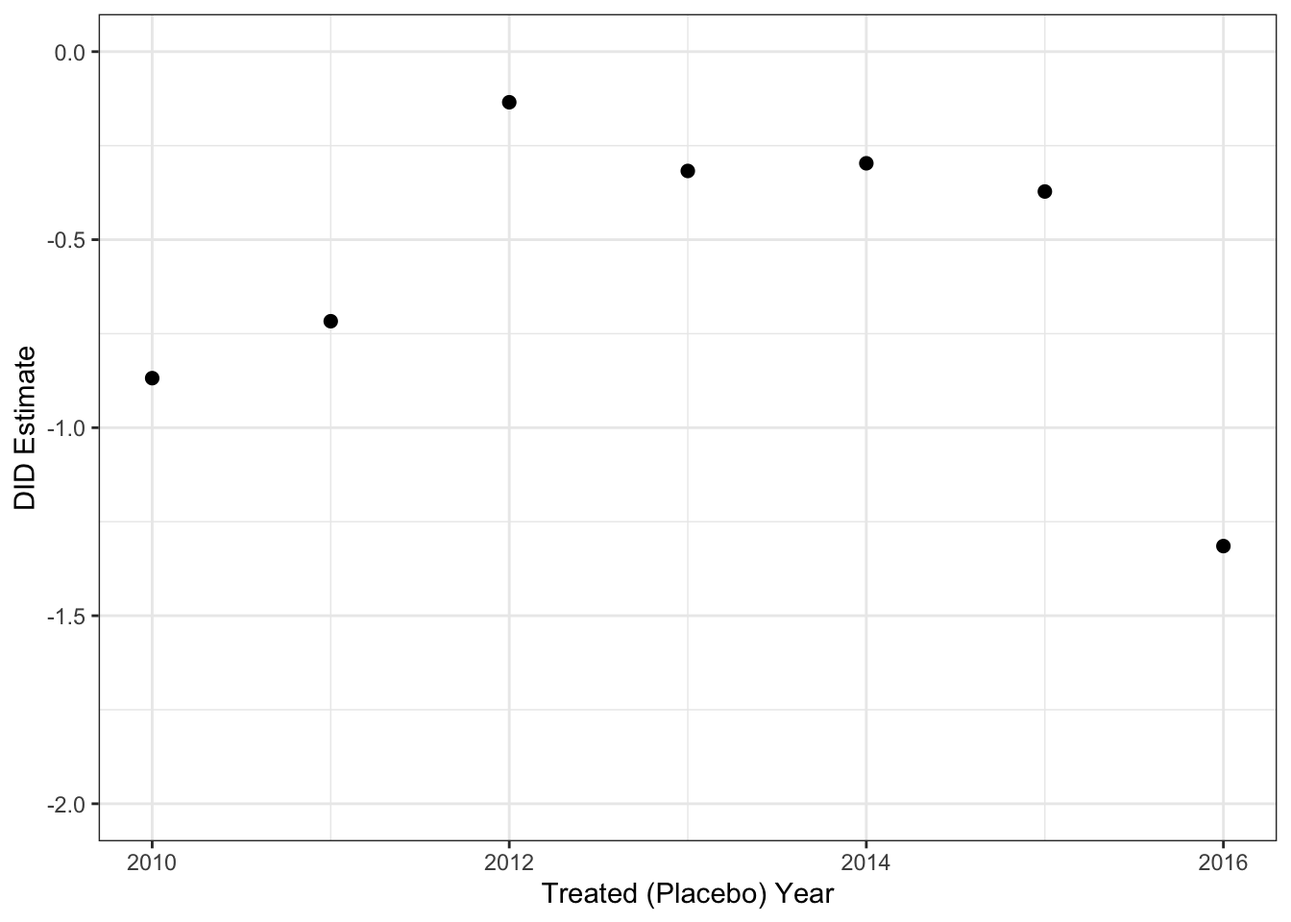
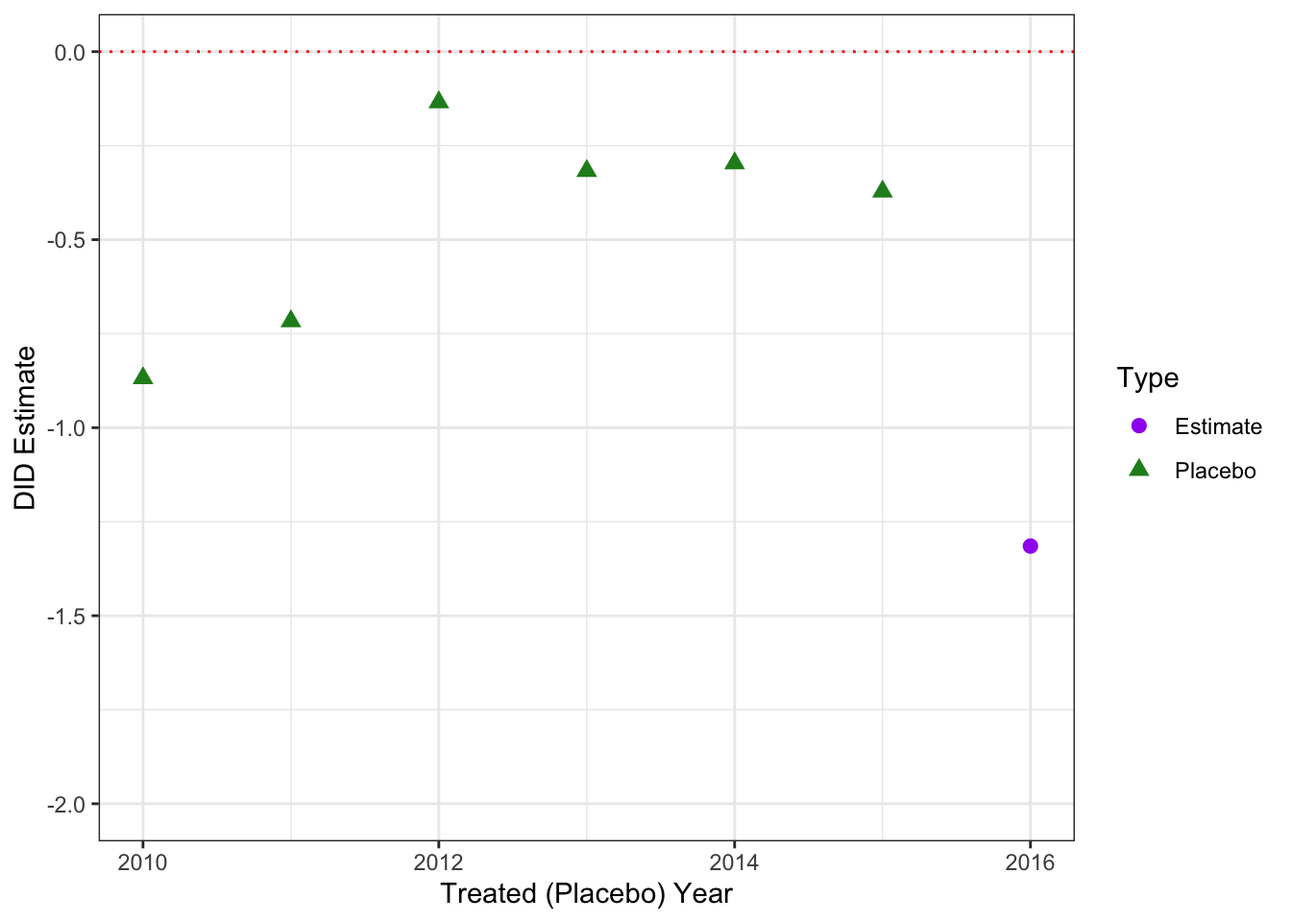
RS: updated DID analysis

diff --git a/analysis/zika-did-handout.html b/analysis/zika-did-handout.html
@@ -117,7 +117,7 @@ pre > code.sourceCode > span > a:first-child::before { text-decoration: underlin
 <h2 class="anchored" data-anchor-id="libraries">Libraries</h2>
 <p>Throughout the workshop, we will use the <code>tidyverse</code> environment for data cleaning and plotting, but the operations for the methods we are learning can be conducted in base R as well. The <code>knitr</code> package is used for formatting table output into the document.</p>
 <p>To get clustered standard errors for the regression-based DID analyses, we use linear mixed effects models fit using the <code>lme4</code> package, although other options are available.</p>
-<p>We now load the two required libraries.</p>
+<p>We now load the required libraries.</p>
 <div class="cell">
 <div class="sourceCode cell-code" id="cb2"><pre class="sourceCode r code-with-copy"><code class="sourceCode r"><span id="cb2-1"><a href="#cb2-1" aria-hidden="true" tabindex="-1"></a><span class="do">## If you have not installed these packages before,</span></span>
 <span id="cb2-2"><a href="#cb2-2" aria-hidden="true" tabindex="-1"></a><span class="do">##  run the following line:</span></span>
@@ -205,23 +205,25 @@ pre > code.sourceCode > span > a:first-child::before { text-decoration: underlin
 <p>We can start by examining just two time periods: 2014, prior to the outbreak, and 2016, the first year where the outbreak could have affected live birth rates throughout the year. Note that we exclude 2015, which may have been partially affected. We continue to use the <code>zika_summ</code> data set here, looking at the two states as a whole.</p>
 <div class="cell">
 <div class="sourceCode cell-code" id="cb6"><pre class="sourceCode r code-with-copy"><code class="sourceCode r"><span id="cb6-1"><a href="#cb6-1" aria-hidden="true" tabindex="-1"></a><span class="do">## Get differences within-units:</span></span>
-<span id="cb6-2"><a href="#cb6-2" aria-hidden="true" tabindex="-1"></a>did_2x2 <span class="ot">&lt;-</span> zika_summ <span class="sc">%&gt;%</span> dplyr<span class="sc">::</span><span class="fu">filter</span>(Year <span class="sc">%in%</span> <span class="fu">c</span>(<span class="dv">2014</span>,<span class="dv">2016</span>)) <span class="sc">%&gt;%</span></span>
-<span id="cb6-3"><a href="#cb6-3" aria-hidden="true" tabindex="-1"></a>  <span class="fu">pivot_wider</span>(<span class="at">id_cols=</span>State,</span>
-<span id="cb6-4"><a href="#cb6-4" aria-hidden="true" tabindex="-1"></a>              <span class="at">names_from=</span>Year,</span>
-<span id="cb6-5"><a href="#cb6-5" aria-hidden="true" tabindex="-1"></a>              <span class="at">values_from=</span>Rate) <span class="sc">%&gt;%</span></span>
-<span id="cb6-6"><a href="#cb6-6" aria-hidden="true" tabindex="-1"></a>  <span class="fu">mutate</span>(<span class="st">`</span><span class="at">Diff, 2016–2014</span><span class="st">`</span><span class="ot">=</span><span class="st">`</span><span class="at">2016</span><span class="st">`</span><span class="sc">-</span><span class="st">`</span><span class="at">2014</span><span class="st">`</span>)</span>
-<span id="cb6-7"><a href="#cb6-7" aria-hidden="true" tabindex="-1"></a><span class="do">## Get differences within years:</span></span>
-<span id="cb6-8"><a href="#cb6-8" aria-hidden="true" tabindex="-1"></a>yr_diffs <span class="ot">&lt;-</span> did_2x2 <span class="sc">%&gt;%</span></span>
-<span id="cb6-9"><a href="#cb6-9" aria-hidden="true" tabindex="-1"></a>  dplyr<span class="sc">::</span><span class="fu">filter</span>(State<span class="sc">==</span><span class="st">"Pernambuco"</span>) <span class="sc">%&gt;%</span> </span>
-<span id="cb6-10"><a href="#cb6-10" aria-hidden="true" tabindex="-1"></a>  dplyr<span class="sc">::</span><span class="fu">select</span>(<span class="sc">-</span><span class="fu">c</span>(State)) <span class="sc">-</span> </span>
-<span id="cb6-11"><a href="#cb6-11" aria-hidden="true" tabindex="-1"></a>  did_2x2 <span class="sc">%&gt;%</span></span>
-<span id="cb6-12"><a href="#cb6-12" aria-hidden="true" tabindex="-1"></a>  dplyr<span class="sc">::</span><span class="fu">filter</span>(State<span class="sc">==</span><span class="st">"Rio Grande do Sul"</span>) <span class="sc">%&gt;%</span> </span>
-<span id="cb6-13"><a href="#cb6-13" aria-hidden="true" tabindex="-1"></a>  dplyr<span class="sc">::</span><span class="fu">select</span>(<span class="sc">-</span><span class="fu">c</span>(State))</span>
-<span id="cb6-14"><a href="#cb6-14" aria-hidden="true" tabindex="-1"></a><span class="do">## Combine into presentation table:</span></span>
-<span id="cb6-15"><a href="#cb6-15" aria-hidden="true" tabindex="-1"></a>did_2x2_f <span class="ot">&lt;-</span> did_2x2 <span class="sc">%&gt;%</span> <span class="fu">add_row</span>(<span class="fu">bind_cols</span>(<span class="at">State=</span><span class="st">"Diff, Treated–Untreated"</span>,</span>
-<span id="cb6-16"><a href="#cb6-16" aria-hidden="true" tabindex="-1"></a>                                 yr_diffs))</span></code><button title="Copy to Clipboard" class="code-copy-button"><i class="bi"></i></button></pre></div>
+<span id="cb6-2"><a href="#cb6-2" aria-hidden="true" tabindex="-1"></a>did_2x2 <span class="ot">&lt;-</span> zika_summ <span class="sc">%&gt;%</span> </span>
+<span id="cb6-3"><a href="#cb6-3" aria-hidden="true" tabindex="-1"></a>  dplyr<span class="sc">::</span><span class="fu">filter</span>(Year <span class="sc">%in%</span> <span class="fu">c</span>(<span class="dv">2014</span>,<span class="dv">2016</span>)) <span class="sc">%&gt;%</span></span>
+<span id="cb6-4"><a href="#cb6-4" aria-hidden="true" tabindex="-1"></a>  <span class="fu">pivot_wider</span>(<span class="at">id_cols=</span>State,</span>
+<span id="cb6-5"><a href="#cb6-5" aria-hidden="true" tabindex="-1"></a>              <span class="at">names_from=</span>Year,</span>
+<span id="cb6-6"><a href="#cb6-6" aria-hidden="true" tabindex="-1"></a>              <span class="at">values_from=</span>Rate) <span class="sc">%&gt;%</span></span>
+<span id="cb6-7"><a href="#cb6-7" aria-hidden="true" tabindex="-1"></a>  <span class="fu">mutate</span>(<span class="st">`</span><span class="at">Diff, 2016–2014</span><span class="st">`</span><span class="ot">=</span><span class="st">`</span><span class="at">2016</span><span class="st">`</span><span class="sc">-</span><span class="st">`</span><span class="at">2014</span><span class="st">`</span>)</span>
+<span id="cb6-8"><a href="#cb6-8" aria-hidden="true" tabindex="-1"></a><span class="do">## Get differences within years:</span></span>
+<span id="cb6-9"><a href="#cb6-9" aria-hidden="true" tabindex="-1"></a>yr_diffs <span class="ot">&lt;-</span> did_2x2 <span class="sc">%&gt;%</span></span>
+<span id="cb6-10"><a href="#cb6-10" aria-hidden="true" tabindex="-1"></a>  dplyr<span class="sc">::</span><span class="fu">filter</span>(State<span class="sc">==</span><span class="st">"Pernambuco"</span>) <span class="sc">%&gt;%</span> </span>
+<span id="cb6-11"><a href="#cb6-11" aria-hidden="true" tabindex="-1"></a>  dplyr<span class="sc">::</span><span class="fu">select</span>(<span class="sc">-</span><span class="fu">c</span>(State)) <span class="sc">-</span> </span>
+<span id="cb6-12"><a href="#cb6-12" aria-hidden="true" tabindex="-1"></a>  did_2x2 <span class="sc">%&gt;%</span></span>
+<span id="cb6-13"><a href="#cb6-13" aria-hidden="true" tabindex="-1"></a>  dplyr<span class="sc">::</span><span class="fu">filter</span>(State<span class="sc">==</span><span class="st">"Rio Grande do Sul"</span>) <span class="sc">%&gt;%</span> </span>
+<span id="cb6-14"><a href="#cb6-14" aria-hidden="true" tabindex="-1"></a>  dplyr<span class="sc">::</span><span class="fu">select</span>(<span class="sc">-</span><span class="fu">c</span>(State))</span>
+<span id="cb6-15"><a href="#cb6-15" aria-hidden="true" tabindex="-1"></a><span class="do">## Combine into presentation table:</span></span>
+<span id="cb6-16"><a href="#cb6-16" aria-hidden="true" tabindex="-1"></a>did_2x2_f <span class="ot">&lt;-</span> did_2x2 <span class="sc">%&gt;%</span> </span>
+<span id="cb6-17"><a href="#cb6-17" aria-hidden="true" tabindex="-1"></a>  <span class="fu">add_row</span>(<span class="fu">bind_cols</span>(<span class="at">State=</span><span class="st">"Diff, Treated–Untreated"</span>,</span>
+<span id="cb6-18"><a href="#cb6-18" aria-hidden="true" tabindex="-1"></a>                    yr_diffs))</span></code><button title="Copy to Clipboard" class="code-copy-button"><i class="bi"></i></button></pre></div>
 </div>
-<p>Table. Two-by-two DID analysis of birth rates in Pernambuco and Rio Grande do Sul, 2016 vs.&nbsp;2014</p>
+<p>Table 1. Two-by-two DID analysis of birth rates in Pernambuco and Rio Grande do Sul, 2016 vs.&nbsp;2014</p>
 <div class="cell">
 <div class="sourceCode cell-code" id="cb7"><pre class="sourceCode r code-with-copy"><code class="sourceCode r"><span id="cb7-1"><a href="#cb7-1" aria-hidden="true" tabindex="-1"></a><span class="do">## Print formatted table of two-by-two analysis:</span></span>
 <span id="cb7-2"><a href="#cb7-2" aria-hidden="true" tabindex="-1"></a>knitr<span class="sc">::</span><span class="fu">kable</span>(did_2x2_f,</span>
@@ -265,8 +267,9 @@ pre > code.sourceCode > span > a:first-child::before { text-decoration: underlin
 <p>The two-by-two DID that summarizes to the exposed/unexposed level is the most straightforward, but ignores a lot of the information we have on variability of the outcome. We can incorporate all of the information on the municipalities using the TWFE regression analysis. We start with the linear form. Note that we are now using the <code>zika_full</code> data set, which has columns for our outcome (<code>Rate</code>), unit identifier (<code>State</code>), time identifier (<code>year</code>, coded as 0 for 2014 and 1 for 2016), and whether the exposure was in effect for that observation (<code>interaction</code>, coded as 0 for unexposed and 1 for exposed).</p>
 <div class="cell">
 <div class="sourceCode cell-code" id="cb8"><pre class="sourceCode r code-with-copy"><code class="sourceCode r"><span id="cb8-1"><a href="#cb8-1" aria-hidden="true" tabindex="-1"></a><span class="do">## Fit linear TWFE model and extract estimate and 95% CI:</span></span>
-<span id="cb8-2"><a href="#cb8-2" aria-hidden="true" tabindex="-1"></a>zika_lm <span class="ot">&lt;-</span> <span class="fu">lm</span>(Rate<span class="sc">~</span>State<span class="sc">+</span>year<span class="sc">+</span>interaction, <span class="at">data=</span>zika_full)</span>
-<span id="cb8-3"><a href="#cb8-3" aria-hidden="true" tabindex="-1"></a><span class="fu">summary</span>(zika_lm)</span></code><button title="Copy to Clipboard" class="code-copy-button"><i class="bi"></i></button></pre></div>
+<span id="cb8-2"><a href="#cb8-2" aria-hidden="true" tabindex="-1"></a>zika_lm <span class="ot">&lt;-</span> <span class="fu">lm</span>(Rate<span class="sc">~</span>State<span class="sc">+</span>year<span class="sc">+</span>interaction, </span>
+<span id="cb8-3"><a href="#cb8-3" aria-hidden="true" tabindex="-1"></a>              <span class="at">data=</span>zika_full)</span>
+<span id="cb8-4"><a href="#cb8-4" aria-hidden="true" tabindex="-1"></a><span class="fu">summary</span>(zika_lm)</span></code><button title="Copy to Clipboard" class="code-copy-button"><i class="bi"></i></button></pre></div>
 <div class="cell-output cell-output-stdout">
 <pre><code>
 Call:
@@ -299,8 +302,9 @@ F-statistic: 195.9 on 3 and 1360 DF,  p-value: &lt; 2.2e-16</code></pre>
 <p>To correct the standard errors, we can cluster by the municipality using a linear mixed effects model with a random effect for municipality.</p>
 <div class="cell">
 <div class="sourceCode cell-code" id="cb12"><pre class="sourceCode r code-with-copy"><code class="sourceCode r"><span id="cb12-1"><a href="#cb12-1" aria-hidden="true" tabindex="-1"></a><span class="do">## Fit a linear mixed effects model to account for clustering by municipality:</span></span>
-<span id="cb12-2"><a href="#cb12-2" aria-hidden="true" tabindex="-1"></a>zika_lmer <span class="ot">&lt;-</span> <span class="fu">lmer</span>(Rate<span class="sc">~</span>State<span class="sc">+</span>year<span class="sc">+</span>interaction<span class="sc">+</span>(<span class="dv">1</span><span class="sc">|</span>Code), <span class="at">data=</span>zika_full)</span>
-<span id="cb12-3"><a href="#cb12-3" aria-hidden="true" tabindex="-1"></a><span class="fu">summary</span>(zika_lmer)</span></code><button title="Copy to Clipboard" class="code-copy-button"><i class="bi"></i></button></pre></div>
+<span id="cb12-2"><a href="#cb12-2" aria-hidden="true" tabindex="-1"></a>zika_lmer <span class="ot">&lt;-</span> <span class="fu">lmer</span>(Rate<span class="sc">~</span>State<span class="sc">+</span>year<span class="sc">+</span>interaction<span class="sc">+</span>(<span class="dv">1</span><span class="sc">|</span>Code),</span>
+<span id="cb12-3"><a href="#cb12-3" aria-hidden="true" tabindex="-1"></a>                  <span class="at">data=</span>zika_full)</span>
+<span id="cb12-4"><a href="#cb12-4" aria-hidden="true" tabindex="-1"></a><span class="fu">summary</span>(zika_lmer)</span></code><button title="Copy to Clipboard" class="code-copy-button"><i class="bi"></i></button></pre></div>
 <div class="cell-output cell-output-stdout">
 <pre><code>Linear mixed model fit by REML ['lmerMod']
 Formula: Rate ~ State + year + interaction + (1 | Code)
@@ -374,7 +378,7 @@ interaction -0.319  0.374 -0.521</code></pre>
 </section>
 <section id="placebo-test-in-time" class="level2">
 <h2 class="anchored" data-anchor-id="placebo-test-in-time">Placebo Test in Time</h2>
-<p>We can use the <code>zika_summ</code> data set to run the two-by-two DID analysis on all pairs of years that are two years apart, starting with 2010 vs.&nbsp;2008. Since there were no Zika outbreaks in those prior years, if the parallel trends assumption holds true, the estimates should be around 0.</p>
+<p>We can use the <code>zika_summ</code> data set to run the two-by-two DID analysis on all pairs of years that are two years apart, starting with 2010 vs.&nbsp;2008. Since there were no Zika outbreaks in those prior years, if the parallel trends assumption holds true, the estimates should be distributed around 0.</p>
 <div class="cell">
 <div class="sourceCode cell-code" id="cb19"><pre class="sourceCode r code-with-copy"><code class="sourceCode r"><span id="cb19-1"><a href="#cb19-1" aria-hidden="true" tabindex="-1"></a><span class="do">## Create a data set with a row for each pair of years</span></span>
 <span id="cb19-2"><a href="#cb19-2" aria-hidden="true" tabindex="-1"></a>zika_plac <span class="ot">&lt;-</span> <span class="fu">tibble</span>(<span class="st">`</span><span class="at">Treated Year</span><span class="st">`</span><span class="ot">=</span><span class="fu">unique</span>(zika_summ<span class="sc">$</span>Year),</span>
@@ -390,18 +394,24 @@ interaction -0.319  0.374 -0.521</code></pre>
 <span id="cb19-12"><a href="#cb19-12" aria-hidden="true" tabindex="-1"></a>  <span class="fu">rename</span>(<span class="at">P0=</span>Pernambuco, <span class="at">R0=</span><span class="st">`</span><span class="at">Rio Grande do Sul</span><span class="st">`</span>)</span>
 <span id="cb19-13"><a href="#cb19-13" aria-hidden="true" tabindex="-1"></a><span class="do">## Get the estimate for each pair of years</span></span>
 <span id="cb19-14"><a href="#cb19-14" aria-hidden="true" tabindex="-1"></a>zika_plac <span class="ot">&lt;-</span> zika_plac <span class="sc">%&gt;%</span></span>
-<span id="cb19-15"><a href="#cb19-15" aria-hidden="true" tabindex="-1"></a>  <span class="fu">mutate</span>(<span class="at">Estimate=</span>(P1<span class="sc">-</span>P0)<span class="sc">-</span>(R1<span class="sc">-</span>R0))</span></code><button title="Copy to Clipboard" class="code-copy-button"><i class="bi"></i></button></pre></div>
+<span id="cb19-15"><a href="#cb19-15" aria-hidden="true" tabindex="-1"></a>  <span class="fu">mutate</span>(<span class="at">Estimate=</span>(P1<span class="sc">-</span>P0)<span class="sc">-</span>(R1<span class="sc">-</span>R0),</span>
+<span id="cb19-16"><a href="#cb19-16" aria-hidden="true" tabindex="-1"></a>         <span class="at">Type=</span><span class="fu">factor</span>(<span class="fu">if_else</span>(<span class="st">`</span><span class="at">Treated Year</span><span class="st">`</span><span class="sc">==</span><span class="dv">2016</span>,</span>
+<span id="cb19-17"><a href="#cb19-17" aria-hidden="true" tabindex="-1"></a>                      <span class="st">"Estimate"</span>,<span class="st">"Placebo"</span>)))</span></code><button title="Copy to Clipboard" class="code-copy-button"><i class="bi"></i></button></pre></div>
 </div>
 <div class="cell">
 <div class="sourceCode cell-code" id="cb20"><pre class="sourceCode r code-with-copy"><code class="sourceCode r"><span id="cb20-1"><a href="#cb20-1" aria-hidden="true" tabindex="-1"></a><span class="do">## Plot two-by-two DID estimates for placebo years:</span></span>
 <span id="cb20-2"><a href="#cb20-2" aria-hidden="true" tabindex="-1"></a><span class="co">#| fig-cap: "Plot of two-by-two DID estimates for placebo treatment years (2010–2015) and actual treated year (2016)"</span></span>
 <span id="cb20-3"><a href="#cb20-3" aria-hidden="true" tabindex="-1"></a><span class="co">#| fig-alt: "A scatter plot with points ranging from around -0.868 to -0.135 in the 2010 through 2015 years, with a point around -1.3 in 2016."</span></span>
 <span id="cb20-4"><a href="#cb20-4" aria-hidden="true" tabindex="-1"></a><span class="fu">ggplot</span>(<span class="at">data=</span>zika_plac) <span class="sc">+</span></span>
-<span id="cb20-5"><a href="#cb20-5" aria-hidden="true" tabindex="-1"></a>  <span class="fu">geom_point</span>(<span class="at">mapping=</span><span class="fu">aes</span>(<span class="at">x=</span><span class="st">`</span><span class="at">Treated Year</span><span class="st">`</span>, <span class="at">y=</span>Estimate),</span>
-<span id="cb20-6"><a href="#cb20-6" aria-hidden="true" tabindex="-1"></a>             <span class="at">size=</span><span class="dv">2</span>) <span class="sc">+</span></span>
-<span id="cb20-7"><a href="#cb20-7" aria-hidden="true" tabindex="-1"></a>  <span class="fu">theme_bw</span>() <span class="sc">+</span></span>
-<span id="cb20-8"><a href="#cb20-8" aria-hidden="true" tabindex="-1"></a>  <span class="fu">labs</span>(<span class="at">x=</span><span class="st">"Treated (Placebo) Year"</span>, <span class="at">y=</span><span class="st">"DID Estimate"</span>) <span class="sc">+</span></span>
-<span id="cb20-9"><a href="#cb20-9" aria-hidden="true" tabindex="-1"></a>  <span class="fu">scale_y_continuous</span>(<span class="at">limits=</span><span class="fu">c</span>(<span class="sc">-</span><span class="dv">2</span>,<span class="dv">0</span>), <span class="at">breaks=</span><span class="fu">seq</span>(<span class="sc">-</span><span class="dv">2</span>,<span class="dv">0</span>,<span class="at">by=</span>.<span class="dv">5</span>))</span></code><button title="Copy to Clipboard" class="code-copy-button"><i class="bi"></i></button></pre></div>
+<span id="cb20-5"><a href="#cb20-5" aria-hidden="true" tabindex="-1"></a>  <span class="fu">geom_point</span>(<span class="at">mapping=</span><span class="fu">aes</span>(<span class="at">x=</span><span class="st">`</span><span class="at">Treated Year</span><span class="st">`</span>, <span class="at">y=</span>Estimate,</span>
+<span id="cb20-6"><a href="#cb20-6" aria-hidden="true" tabindex="-1"></a>                         <span class="at">color=</span>Type, <span class="at">shape=</span>Type),</span>
+<span id="cb20-7"><a href="#cb20-7" aria-hidden="true" tabindex="-1"></a>             <span class="at">size=</span><span class="fl">2.5</span>) <span class="sc">+</span></span>
+<span id="cb20-8"><a href="#cb20-8" aria-hidden="true" tabindex="-1"></a>  <span class="fu">theme_bw</span>() <span class="sc">+</span></span>
+<span id="cb20-9"><a href="#cb20-9" aria-hidden="true" tabindex="-1"></a>  <span class="fu">labs</span>(<span class="at">x=</span><span class="st">"Treated (Placebo) Year"</span>, <span class="at">y=</span><span class="st">"DID Estimate"</span>) <span class="sc">+</span></span>
+<span id="cb20-10"><a href="#cb20-10" aria-hidden="true" tabindex="-1"></a>  <span class="fu">scale_y_continuous</span>(<span class="at">limits=</span><span class="fu">c</span>(<span class="sc">-</span><span class="dv">2</span>,<span class="dv">0</span>), <span class="at">breaks=</span><span class="fu">seq</span>(<span class="sc">-</span><span class="dv">2</span>,<span class="dv">0</span>,<span class="at">by=</span>.<span class="dv">5</span>)) <span class="sc">+</span></span>
+<span id="cb20-11"><a href="#cb20-11" aria-hidden="true" tabindex="-1"></a>  <span class="fu">scale_color_manual</span>(<span class="at">breaks=</span><span class="fu">c</span>(<span class="st">"Estimate"</span>,<span class="st">"Placebo"</span>),</span>
+<span id="cb20-12"><a href="#cb20-12" aria-hidden="true" tabindex="-1"></a>                     <span class="at">values=</span><span class="fu">c</span>(<span class="st">"purple"</span>,<span class="st">"forestgreen"</span>)) <span class="sc">+</span></span>
+<span id="cb20-13"><a href="#cb20-13" aria-hidden="true" tabindex="-1"></a>  <span class="fu">geom_hline</span>(<span class="at">yintercept=</span><span class="dv">0</span>, <span class="at">color=</span><span class="st">"red"</span>, <span class="at">linetype=</span><span class="st">"dotted"</span>)</span></code><button title="Copy to Clipboard" class="code-copy-button"><i class="bi"></i></button></pre></div>
 <div class="cell-output-display">
 <div>
 <figure class="figure">
@@ -491,11 +501,15 @@ interaction             0.8978948  0.9668531</code></pre>
 <span id="cb32-2"><a href="#cb32-2" aria-hidden="true" tabindex="-1"></a><span class="co">#| fig-cap: "Plot of two-by-two log-transformed DID estimates for placebo treatment years (2010–2015) and actual treated year (2016)"</span></span>
 <span id="cb32-3"><a href="#cb32-3" aria-hidden="true" tabindex="-1"></a><span class="co">#| fig-alt: "A scatter plot with points ranging from around 0 to -0.05 in the 2010 through 2015 years, with a point around -0.09 in 2016."</span></span>
 <span id="cb32-4"><a href="#cb32-4" aria-hidden="true" tabindex="-1"></a><span class="fu">ggplot</span>(<span class="at">data=</span>zika_plac) <span class="sc">+</span></span>
-<span id="cb32-5"><a href="#cb32-5" aria-hidden="true" tabindex="-1"></a>  <span class="fu">geom_point</span>(<span class="at">mapping=</span><span class="fu">aes</span>(<span class="at">x=</span><span class="st">`</span><span class="at">Treated Year</span><span class="st">`</span>, <span class="at">y=</span>LogEstimate),</span>
-<span id="cb32-6"><a href="#cb32-6" aria-hidden="true" tabindex="-1"></a>             <span class="at">size=</span><span class="dv">2</span>) <span class="sc">+</span></span>
-<span id="cb32-7"><a href="#cb32-7" aria-hidden="true" tabindex="-1"></a>  <span class="fu">theme_bw</span>() <span class="sc">+</span></span>
-<span id="cb32-8"><a href="#cb32-8" aria-hidden="true" tabindex="-1"></a>  <span class="fu">labs</span>(<span class="at">x=</span><span class="st">"Treated (Placebo) Year"</span>, <span class="at">y=</span><span class="st">"Log-Transformed DID Estimate"</span>) <span class="sc">+</span></span>
-<span id="cb32-9"><a href="#cb32-9" aria-hidden="true" tabindex="-1"></a>  <span class="fu">scale_y_continuous</span>(<span class="at">limits=</span><span class="fu">c</span>(<span class="sc">-</span><span class="fl">0.25</span>,<span class="fl">0.25</span>), <span class="at">breaks=</span><span class="fu">seq</span>(<span class="sc">-</span><span class="fl">0.25</span>,<span class="fl">0.25</span>,<span class="at">by=</span>.<span class="dv">125</span>))</span></code><button title="Copy to Clipboard" class="code-copy-button"><i class="bi"></i></button></pre></div>
+<span id="cb32-5"><a href="#cb32-5" aria-hidden="true" tabindex="-1"></a>  <span class="fu">geom_point</span>(<span class="at">mapping=</span><span class="fu">aes</span>(<span class="at">x=</span><span class="st">`</span><span class="at">Treated Year</span><span class="st">`</span>, <span class="at">y=</span>LogEstimate,</span>
+<span id="cb32-6"><a href="#cb32-6" aria-hidden="true" tabindex="-1"></a>                         <span class="at">color=</span>Type, <span class="at">shape=</span>Type),</span>
+<span id="cb32-7"><a href="#cb32-7" aria-hidden="true" tabindex="-1"></a>             <span class="at">size=</span><span class="fl">2.5</span>) <span class="sc">+</span></span>
+<span id="cb32-8"><a href="#cb32-8" aria-hidden="true" tabindex="-1"></a>  <span class="fu">theme_bw</span>() <span class="sc">+</span></span>
+<span id="cb32-9"><a href="#cb32-9" aria-hidden="true" tabindex="-1"></a>  <span class="fu">labs</span>(<span class="at">x=</span><span class="st">"Treated (Placebo) Year"</span>, <span class="at">y=</span><span class="st">"Log-Transformed DID Estimate"</span>) <span class="sc">+</span></span>
+<span id="cb32-10"><a href="#cb32-10" aria-hidden="true" tabindex="-1"></a>  <span class="fu">scale_y_continuous</span>(<span class="at">limits=</span><span class="fu">c</span>(<span class="sc">-</span><span class="fl">0.1</span>,<span class="fl">0.1</span>), <span class="at">breaks=</span><span class="fu">seq</span>(<span class="sc">-</span><span class="fl">0.1</span>,<span class="fl">0.1</span>,<span class="at">by=</span>.<span class="dv">025</span>)) <span class="sc">+</span></span>
+<span id="cb32-11"><a href="#cb32-11" aria-hidden="true" tabindex="-1"></a>  <span class="fu">scale_color_manual</span>(<span class="at">breaks=</span><span class="fu">c</span>(<span class="st">"Estimate"</span>,<span class="st">"Placebo"</span>),</span>
+<span id="cb32-12"><a href="#cb32-12" aria-hidden="true" tabindex="-1"></a>                     <span class="at">values=</span><span class="fu">c</span>(<span class="st">"purple"</span>,<span class="st">"forestgreen"</span>)) <span class="sc">+</span></span>
+<span id="cb32-13"><a href="#cb32-13" aria-hidden="true" tabindex="-1"></a>  <span class="fu">geom_hline</span>(<span class="at">yintercept=</span><span class="dv">0</span>, <span class="at">color=</span><span class="st">"red"</span>, <span class="at">linetype=</span><span class="st">"dotted"</span>)</span></code><button title="Copy to Clipboard" class="code-copy-button"><i class="bi"></i></button></pre></div>
 <div class="cell-output-display">
 <div>
 <figure class="figure">
@@ -504,6 +518,13 @@ interaction             0.8978948  0.9668531</code></pre>
 </div>
 </div>
 </div>
+</section>
+<section id="discussion-questions-1" class="level2">
+<h2 class="anchored" data-anchor-id="discussion-questions-1">Discussion Questions</h2>
+<ol type="1">
+<li><p>Do the placebo tests support the observed effect being a true causal effect?</p></li>
+<li><p>Do they indicate potential bias in one direction or another?</p></li>
+</ol>
 </section>
 <section id="additional-options" class="level2">
 <h2 class="anchored" data-anchor-id="additional-options">Additional Options</h2>
@@ -538,7 +559,7 @@ interaction             0.8978948  0.9668531</code></pre>
 </section>
 <section id="discussion-question-1" class="level2">
 <h2 class="anchored" data-anchor-id="discussion-question-1">Discussion Question</h2>
-<p>How does the transformation of the outcome change the interpretation of the estimate and of the assumptions required?</p>
+<p>How do transformations of the outcome change the interpretation of the estimate and of the assumptions required?</p>
 </section>
 
 </main>
